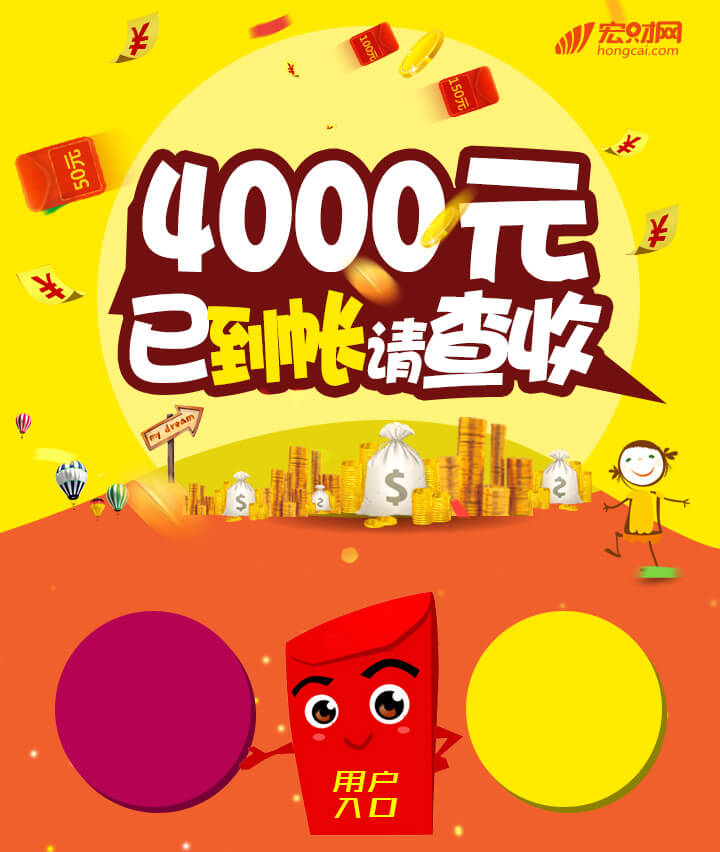
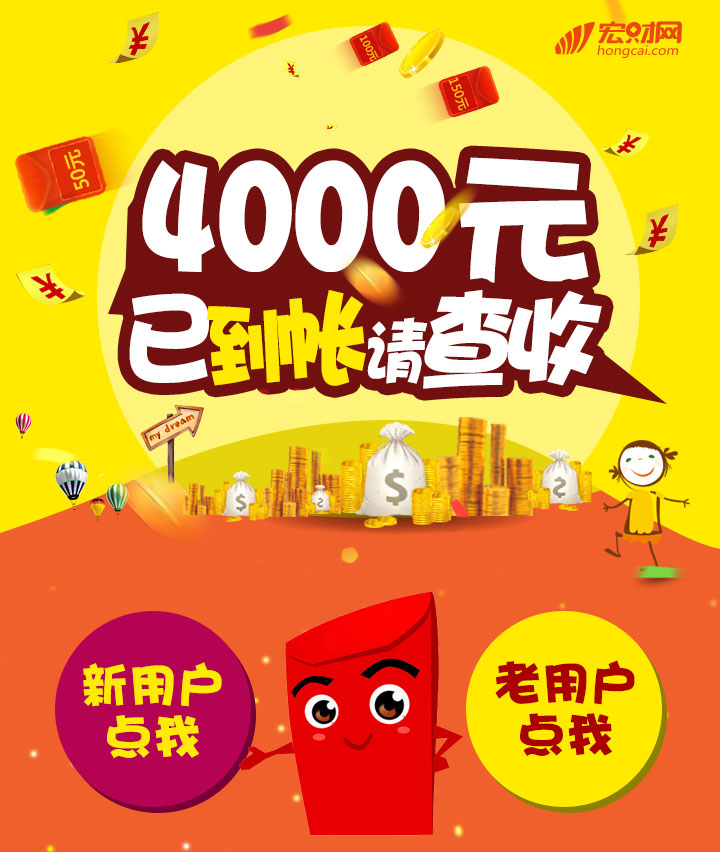
体验金落地页2

diff --git a/app/styles/activity.less b/app/styles/activity.less
@@ -145,8 +145,10 @@
 
 .new-user {
   position: absolute;
-  bottom: 12%;
-  left: 12%;
+  bottom: 7%;
+  left: 9%;
+  width: 9rem;
+  height: 9rem;
   text-align: center;
   font-size: 2.5rem;
   color: #ffea00;
@@ -157,9 +159,11 @@
 
 .old-user {
   position: absolute;
-  bottom: 12%;
+  bottom: 7%;
   text-align: center;
-  right: 12%;
+  right: 9%;
+  width: 9rem;
+  height: 9rem;
   color: #fc0000;
   font-size: 2.5rem;
   p{

diff --git a/app/views/activity/experience-landing.html b/app/views/activity/experience-landing.html
@@ -2,12 +2,8 @@
   <div class="position-re">
     <img src="/images/activity/11.jpg" alt="" width="100%">
     <div class="new-user">
-      <p>新用户</p>
-      <p>点我</p>
     </div>
     <div class="old-user">
-      <p>老用户</p>
-      <p>点我</p>
     </div>
   </div>
   <div class="position-re">
